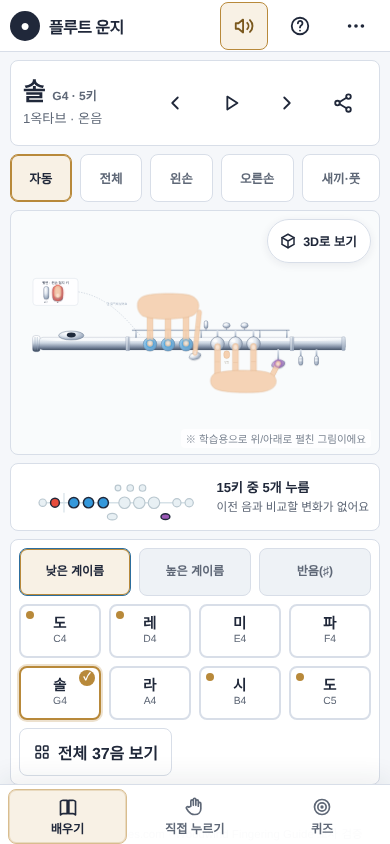
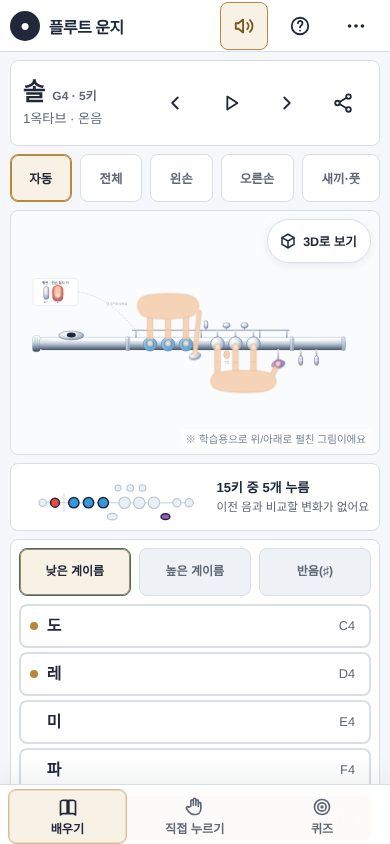
Stack the 2D note buttons in one vertical column too
Apply the same single-column list used in the 3D panel to the 2D app's
note-selection dock (#selector-dock): one row per note with the Korean
name, the keyboard-shortcut badge and the English name, gold fill for the
selected note, no inner scrolling. The "all 37 notes" sheet keeps its tiles.

Because the list is now taller than the old 2-row tile grid:
- mobile (<1024px, >=600px tall, learn mode): the fingering stage stays
  pinned under the top bar while the list scrolls
- speed mode on mobile: the question panel now sits above the list
- desktop: the grid's stretch row is the dock row, so there is no gap
  between the stage and the overview

No JavaScript changes. Docs and the 2 QA screenshots that show the dock
(05, 07) are regenerated.

Claude-Session: https://claude.ai/code/session_01AGBZvwWJVfQoH8o65SEwUy

Changed region(s): [[0.0308, 0.7085, 0.9538, 0.9242]]

diff --git a/index.html b/index.html
@@ -353,25 +353,46 @@ body:not([data-mode="learn"]) .stage-3d-link{display:none}
 .selector-tab[data-group="low"][aria-selected="true"]{border-color:#2c6e9e}
 .selector-tab[data-group="high"][aria-selected="true"]{border-color:#b3452f}
 .selector-tab[data-group="accidental"][aria-selected="true"]{border-color:#7d4ba0}
-#selector-grid{display:grid;grid-template-columns:repeat(4,minmax(0,1fr));gap:8px}
-#selector-grid[data-group="accidental"]{grid-template-columns:repeat(5,minmax(0,1fr))}
-.group-note-btn,.note-btn{
+/* 계이름 버튼 목록(.group-note-btn): 낮은 음 → 높은 음 순서로 세로 한 줄(1열 종대). 한글 이름은 왼쪽, 영문 이름은 오른쪽(3D 화면의 목록과 같은 모양).
+   버튼은 손가락으로 누르기 좋게 높이 44px 이상, 폭은 패널 가득. 고른 음은 금색 채움(3D와 같음), 강제 색상 모드에서는 3px 윤곽선.
+   8~10개를 쌓은 목록은 패널을 길게 만들 뿐, 목록 안에서 따로 스크롤하지 않는다
+   (스크롤은 페이지 하나뿐이라 휠·터치가 헷갈리지 않고, 모바일에서는 운지 그림이 위에 고정된 채 목록이 그 아래로 지나간다). */
+#selector-grid{display:flex;flex-direction:column;gap:4px}
+.group-note-btn{
+  position:relative;min-width:0;min-height:44px;padding:0 14px 0 26px;border:2px solid var(--line);border-radius:var(--radius);
+  background:#fff;color:var(--ink);cursor:pointer;display:flex;align-items:center;gap:10px;line-height:1.1;text-align:left
+}
+.group-note-btn .nb-ko{order:1;font-size:1rem;font-weight:850;white-space:nowrap}
+.group-note-btn .nb-ko br{display:none} /* '도♯/레♭'을 두 줄로 나누던 줄바꿈 — 한 줄 버튼에서는 필요 없음 */
+.group-note-btn .kbd-badges{order:2}
+.group-note-btn .nb-en{order:3;margin-left:auto;font-size:.8rem;color:var(--muted);white-space:nowrap}
+.group-note-btn.black{background:var(--ink);border-color:var(--ink);color:#fff}
+.group-note-btn.black .nb-en{color:#c7cfdb}
+.group-note-btn.active,.group-note-btn.black.active{background:var(--accent);border-color:var(--accent);color:var(--ink);box-shadow:0 0 0 3px rgba(184,137,58,.35)}
+.group-note-btn.active .nb-en{color:inherit}
+/* 전체 37음 시트의 버튼(.note-btn)은 예전 모양 그대로 */
+.note-btn{
   position:relative;min-width:0;min-height:54px;padding:5px 3px;border:2px solid var(--line);border-radius:var(--radius);
   background:#fff;color:var(--ink);cursor:pointer;display:flex;flex-direction:column;align-items:center;justify-content:center;line-height:1.05
 }
-.group-note-btn .nb-ko,.note-btn .nb-ko{font-size:.91rem;font-weight:850}
-.group-note-btn .nb-en,.note-btn .nb-en{font-size:.65rem;color:var(--muted);margin-top:3px;white-space:nowrap}
-.group-note-btn.black,.note-btn.black{background:var(--ink);border-color:var(--ink);color:#fff}
-.group-note-btn.black .nb-en,.note-btn.black .nb-en{color:#c7cfdb}
-.group-note-btn.active,.note-btn.active{border-color:var(--accent);box-shadow:0 0 0 2px rgba(184,137,58,.25)}
-.group-note-btn.active::after,.note-btn.active::after{
+.note-btn .nb-ko{font-size:.91rem;font-weight:850}
+.note-btn .nb-en{font-size:.65rem;color:var(--muted);margin-top:3px;white-space:nowrap}
+.note-btn.black{background:var(--ink);border-color:var(--ink);color:#fff}
+.note-btn.black .nb-en{color:#c7cfdb}
+.note-btn.active{border-color:var(--accent);box-shadow:0 0 0 2px rgba(184,137,58,.25)}
+.note-btn.active::after{
   content:"✓";position:absolute;top:2px;right:4px;width:16px;height:16px;border-radius:50%;display:grid;place-items:center;
   background:var(--accent);color:#fff;font-size:.65rem;font-weight:900
 }
+@media (hover:hover){.group-note-btn:not(.active):hover{border-color:var(--accent)}}
 .info-dot{position:absolute;left:5px;top:5px;width:8px;height:8px;border-radius:50%;background:var(--accent);box-shadow:0 0 0 2px #fff}
+.group-note-btn .info-dot{left:9px;top:50%;margin-top:-4px} /* 한 줄 버튼: 왼쪽 여백 가운데에 */
+.group-note-btn.active .info-dot{background:var(--ink);box-shadow:0 0 0 2px var(--accent)}
 .black .info-dot{box-shadow:0 0 0 2px var(--ink)}
 .kbd-badges{position:absolute;left:3px;bottom:3px;display:flex;gap:2px;pointer-events:none}
 .kbd-badge{padding:2px 3px;border-radius:3px;background:rgba(255,255,255,.94);font-size:.48rem;font-weight:850;color:#20283a;border:1px solid currentColor}
+.group-note-btn .kbd-badges{position:static;left:auto;bottom:auto} /* 한 줄 버튼: 한글 이름 바로 옆에 나란히(영문 이름과 겹치지 않음) */
+.group-note-btn .kbd-badge{padding:2px 6px;border-radius:4px;font-size:.66rem;line-height:1.15}
 .kbd-badge.plain{color:#2c6e9e}.kbd-badge.shift{color:#b3452f}.kbd-badge.alt{color:#7d4ba0}
 .kbd-badge.kbd-flash{animation:kbd-flash .3s ease-out}
 @keyframes kbd-flash{50%{transform:scale(1.15);background:currentColor;color:#fff}}
@@ -496,9 +517,18 @@ body[data-mode="quiz2"] #note-info .summary-actions{display:none}
 @media (hover:none),(pointer:coarse){
   .kbd-badges,#kbd-guide{display:none!important}
 }
-@media (max-width:359px){
-  #selector-grid[data-group="accidental"]{grid-template-columns:repeat(4,minmax(0,1fr))}
-  .group-note-btn .nb-ko{font-size:.82rem}
+/* 모바일·태블릿(한 줄로 흐르는 화면): 계이름 목록이 세로로 길어졌으니
+   · 배우기: 운지 그림을 화면 위에 고정 → 아래로 스크롤하며 음을 눌러도 그림이 계속 보인다(3D 화면과 같은 방식).
+     세로가 짧은 화면(가로로 돌린 폰 등)에서는 그림이 화면을 거의 다 차지하므로 고정하지 않는다.
+   · 스피드 연습: 문제(남은 시간 게이지)를 목록 위로 올려, 문제를 보면서 바로 아래 목록을 누른다. */
+@media (max-width:1023px){
+  body[data-mode="speed"] #quiz-panel{order:4}
+}
+@media (max-width:1023px) and (min-height:600px){
+  body[data-mode="learn"] #stage{
+    position:sticky;top:calc(var(--topbar-h) + 6px);z-index:10;
+    box-shadow:0 -6px 0 var(--app-bg),0 6px 0 var(--app-bg) /* 고정된 그림 위·아래 틈으로 스크롤되는 내용이 비치지 않게 */
+  }
 }
 @media (min-width:768px){
   main#app-main{padding:14px 20px 34px;gap:12px}
@@ -506,8 +536,6 @@ body[data-mode="quiz2"] #note-info .summary-actions{display:none}
   #stage{height:clamp(290px,42vw,410px)}
   #key-overview{min-height:78px}
   #key-overview svg{height:62px}
-  #selector-grid{grid-template-columns:repeat(8,minmax(0,1fr))}
-  #selector-grid[data-group="accidental"]{grid-template-columns:repeat(10,minmax(0,1fr))}
   .octave-section .note-grid{grid-template-columns:repeat(8,minmax(0,1fr))}
   #key-input-pad{grid-template-columns:repeat(5,minmax(0,1fr))}
   .help-map-grid{grid-template-columns:repeat(3,1fr)}
@@ -521,7 +549,8 @@ body[data-mode="quiz2"] #note-info .summary-actions{display:none}
     border-top:0;border-bottom:1px solid var(--line);box-shadow:none;display:flex;justify-content:flex-start;background:rgba(255,255,255,.96)
   }
   .mode-button{min-width:150px;min-height:42px;flex-direction:row;font-size:.84rem;padding:0 16px}
-  main#app-main{display:grid;grid-template-columns:minmax(0,1fr) 360px;grid-template-areas:
+  /* 오른쪽 계이름 목록(세로 1열)이 왼쪽 열보다 길어도, 남는 높이는 '운지 요약' 줄(1fr)이 받는다 → 운지 그림과 요약 사이가 벌어지지 않는다 */
+  main#app-main{display:grid;grid-template-columns:minmax(0,1fr) 360px;grid-template-rows:auto auto 1fr auto;grid-template-areas:
     "summary summary"
     "stage selector"
     "overview selector"
@@ -532,7 +561,6 @@ body[data-mode="quiz2"] #note-info .summary-actions{display:none}
   #key-overview{grid-area:overview;order:unset}
   #selector-dock{grid-area:selector;order:unset;position:sticky;top:calc(var(--topbar-h) + 68px)}
   #selector-tabs{grid-template-columns:1fr}
-  #selector-grid,#selector-grid[data-group="accidental"]{grid-template-columns:repeat(4,minmax(0,1fr))}
   #quiz-panel{grid-area:quiz;order:unset}
   #app-toast{bottom:20px}
   #help-overlay{align-items:center}

diff --git a/docs/3d-view.md b/docs/3d-view.md
@@ -62,6 +62,16 @@ node qa/check-3d-data.mjs
 - **키보드 단축키(2D 앱과 같음)**: 숫자 1~7 = 도~시(C4~B4) · Shift+1~7 = 높은 도~시(C5~B5) · Alt+1~5 = 반음 도♯/레♭ · 레♯/미♭ · 파♯/솔♭ · 솔♯/라♭ · 라♯/시♭(C♯4~A♯4) · Alt+6~0 = 높은 반음(같은 순서, C♯5~A♯5) · ←/→ 반음 · ↑/↓ 옥타브. 숫자는 키보드 위쪽 줄만 씁니다(`event.code` 기준이라 Shift를 눌러 기호가 나와도, 한글 입력 상태여도 같은 키로 인식). 표는 `NOTE_SHORTCUTS` 하나이고 `index.html`에 같은 표가 있으며, `qa/check-3d-data.mjs`(GitHub Actions `data-sync`)가 둘이 같은지 검사합니다. 표에 없는 조합(숫자만 또는 Shift로 누른 8·9·0, Ctrl, Shift+Alt 등)은 브라우저 기본 동작을 막지 않습니다. 단축키는 모두 24개이고, 한 음에 단축키는 하나뿐입니다(`qa/check-3d-data.mjs`가 겹침도 검사).
 - 코드는 `buildSelector()`(버튼 생성) · `showOctave()`(옥타브 전환) · `bindUi()`의 `#selector3d` 클릭 처리에 있습니다. 옥타브 1~3(옥타브마다 12~13개)을 가정하며, 음 범위가 달라져도 목록은 버튼 수만큼 그대로 길어집니다. 버튼 모양은 CSS `.piano`(`flex-direction: column`)와 `.note-btn`(`min-height: 44px`, 폭은 패널 가득)으로 정합니다.
 
+### 2D 앱의 계이름 선택 패널 (`index.html`의 `#selector-dock`)
+
+3D 패널과 같은 모양의 **1열 종대 목록**으로 바꿨습니다(같은 요청으로 함께).
+
+- **탭 3개**(낮은 계이름 8개 · 높은 계이름 8개 · 반음(♯) 10개) 중 고른 탭의 버튼만 `#selector-grid`에 세로로 쌓입니다. 탭 동작과 접근성 속성(`role="tablist"`, ←/→ 이동)은 그대로입니다.
+- **버튼 한 줄**(`.group-note-btn`): 왼쪽에 한글 이름(반음은 「도♯/레♭」을 한 줄로), 그 바로 옆에 **단축키 배지**(`1` · `Shift+1` · `Alt+1` …, 마우스 화면에서만 보임), 오른쪽 끝에 영문 음이름이 놓입니다. 팁이 있는 음은 왼쪽 여백에 금색 점이 붙습니다. 높이 44px 이상, 폭은 패널 가득이고, 고른 음은 3D처럼 금색 채움입니다(예전의 ✓ 배지는 뺐고, 강제 색상 모드에서는 3px 윤곽선). 「전체 37음 보기」 시트의 버튼(`.note-btn`)은 예전 모양 그대로입니다.
+- **목록 안에서는 스크롤하지 않습니다**(스크롤은 페이지 하나뿐). 데스크톱(1024px 이상)에서는 패널이 오른쪽 열에 놓이는데, 목록이 길어진 만큼 레이아웃 그리드의 세 번째 행을 `1fr`로 두어(남는 높이를 「운지 요약」 행이 받음) 운지 그림과 요약 사이가 벌어지지 않습니다. 키보드 안내 표가 목록 위에 있어서 화면이 낮은 노트북에서는 페이지를 조금 내려 아래쪽 버튼을 봅니다.
+- **모바일·태블릿(1024px 미만)**: 목록이 길어졌으므로 배우기 모드에서 화면 높이가 600px 이상이면 **운지 그림(`#stage`)이 위에 고정**되고 버튼 목록이 그 아래로 지나갑니다(가로로 돌린 폰처럼 낮은 화면에서는 고정하지 않음). 스피드 연습에서는 문제(`#quiz-panel`)를 목록 위로 올려, 문제를 보면서 바로 아래 버튼을 누르게 했습니다.
+- 코드는 `renderGroupSelector()`(버튼 생성) · `noteButtonMarkup()`(버튼 안쪽 마크업, 시트와 공용)에 있고, 모양은 CSS `#selector-grid`(`flex-direction: column`)와 `.group-note-btn`(`min-height: 44px`)으로 정합니다.
+
 ## 좌표 · 자세 규약
 
 - 단위 cm. 플루트 축 = X(머리관 0 → 풋 67), 위 = +Y, 연주자 쪽 = +Z, 관객 쪽 = −Z.
@@ -105,5 +115,6 @@ node qa/check-3d-data.mjs
 - 오른쪽 패널: 옥타브 버튼을 누르면 같은 계이름으로 옮겨지고 계이름 버튼 목록에 선택한 음(금색)이 보인다. C7은 3옥타브에서만 있다. 「보기 설정」은 접혀 있고 펼치면 스위치 4개가 나온다.
 - 계이름 버튼은 세로 한 줄(1열)로 쌓이고 폭이 모두 같다. 어떤 음을 골라도 그 버튼이 금색으로 채워지고, 목록 안에서는 스크롤되지 않는다(페이지만 스크롤). 모바일에서는 3D 화면이 위에 고정된 채 버튼이 그 아래로 지나가고, 화면 높이가 낮은 노트북에서는 페이지를 조금 내려 아래쪽 버튼과 「보기 설정」을 본다.
 - 키보드 숫자 1~7(도~시) · Shift+1~7(높은 도~시) · Alt+1~5(반음) · Alt+6~0(높은 반음)으로 2D·3D 모두 같은 음이 골라진다(24개). 2D에서는 그 단축키의 탭(낮은 계이름 · 높은 계이름 · 반음)이 펼쳐지고 안내 표의 그 칸이 반짝인다. Windows에서는 Alt를 왼쪽 키로 누른다(오른쪽 Alt는 한/영 키).
+- 2D 계이름 선택 패널: 탭 3개(낮은 · 높은 · 반음) 모두 버튼이 세로 한 줄(1열)로 쌓이고 폭이 같다. 고른 음이 금색으로 채워지고, 단축키 배지(마우스 화면)가 한글 이름 옆에 있으며 영문 이름과 겹치지 않는다. 모바일에서는 운지 그림이 위에 고정된 채 버튼이 그 아래로 지나가고(가로로 돌리면 고정되지 않음), 스피드 연습에서는 문제가 버튼 목록 위에 나온다.
 - 앱을 한 번 연 뒤 오프라인에서 2D·3D 화면이 각각 제대로 열린다.
 - WebGL을 끈 브라우저에서 안내 문구와 2D 링크가 나온다.
